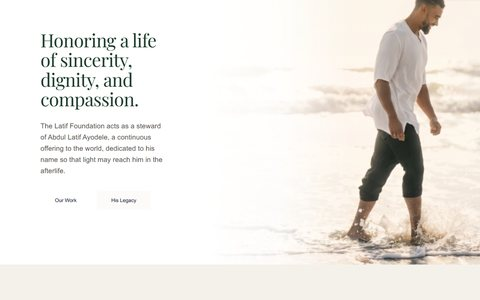
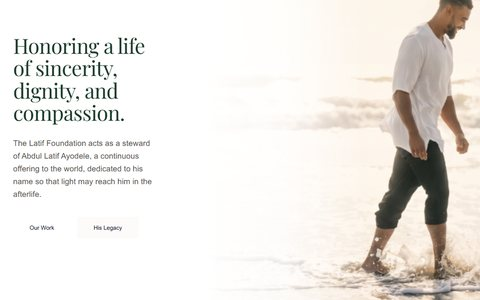
Polish: balanced work grid, clearer card labels, tidier project pages

diff --git a/index.html b/index.html
@@ -162,7 +162,9 @@ em.s { font-style: normal; color: var(--olive); }
 .cover { position: absolute; inset: 0; display: grid; place-items: center; padding: 14%; background: var(--t-default); transition: transform 1.1s cubic-bezier(.2, .7, .2, 1); }
 .cover.pa { background: #f26a03; color: #fff; } .cover.ink { background: #151412; color: #f4efe6; } .cover.iac { background: #123f33; color: #fff; }
 .cover.amwt { background: #008c70; color: #fff; } .cover.ink2 { background: #0f1a17; color: #e9f5f1; }
-.cover.warm { background: var(--t-warm); color: #1d1a17; } .cover.dark { background: var(--t-dark); color: #f4efe6; }
+.cover.warm { background: var(--t-warm); color: #1d1a17; }
+:root[data-theme="dark"] .cover.warm { background: #2a241c; color: #f3ebe0; }
+@media (prefers-color-scheme: dark) { :root:not([data-theme="light"]) .cover.warm { background: #2a241c; color: #f3ebe0; } } .cover.dark { background: var(--t-dark); color: #f4efe6; }
 .cover img { max-height: 30%; max-width: 64%; width: auto; }
 .cover img.white { filter: brightness(0) invert(1); }
 .cover .sub { position: absolute; left: 24px; right: 24px; bottom: 22px; display: flex; justify-content: space-between; gap: 16px; font: 500 12px/1 var(--sans); letter-spacing: .16em; text-transform: uppercase; opacity: .8; }
@@ -205,7 +207,7 @@ em.s { font-style: normal; color: var(--olive); }
 
 /* about */
 .about { display: grid; grid-template-columns: minmax(0, 1fr) minmax(0, 1fr); gap: 80px; align-items: start; }
-.about .big { font: 400 clamp(22px, 2.2vw, 29px)/1.38 var(--sans); letter-spacing: -.02em; margin-top: 28px; }
+.about .big { font: 400 clamp(19px, 1.8vw, 24px)/1.45 var(--sans); letter-spacing: -.02em; margin-top: 28px; }
 .xp { display: grid; border-top: 1px solid var(--ink); }
 .job { display: grid; grid-template-columns: minmax(0, 1fr) auto; gap: 4px 20px; padding-block: 26px; border-bottom: 1px solid var(--rule); }
 .job h3 { font: 500 19px/1.35 var(--sans); letter-spacing: -.015em; }
@@ -225,6 +227,12 @@ em.s { font-style: normal; color: var(--olive); }
 .orgs .did { font-size: 16px; color: var(--ink-2); }
 .orgs .did strong { display: block; font: 500 13px/1.3 var(--sans); color: var(--muted); margin-bottom: 8px; }
 .note { margin-top: 28px; font-size: 13px; color: var(--muted); max-width: 90ch; }
+.notes { margin-top: 28px; }
+.notes summary { cursor: pointer; font-size: 14px; color: var(--ink-2); list-style: none; display: inline-flex; gap: 8px; align-items: center; }
+.notes summary::-webkit-details-marker { display: none; }
+.notes summary::after { content: "+"; font-size: 16px; color: var(--olive); transition: transform .2s; }
+.notes[open] summary::after { transform: rotate(45deg); }
+.notes .note { margin-top: 14px; }
 
 /* AI, as a quiet side note */
 .ai { display: grid; grid-template-columns: minmax(0, 1fr) minmax(0, 1fr); gap: 80px; align-items: start; }
@@ -245,8 +253,8 @@ footer .open { font: 500 clamp(36px, 5vw, 72px)/1.02 var(--sans); letter-spacing
 .case { padding-block: 48px 0; }
 .back { font-size: 14px; color: var(--muted); text-decoration: none; }
 .back:hover { color: var(--ink); }
-.case h1 { font: 500 clamp(44px, 7vw, 104px)/.95 var(--sans); letter-spacing: -.05em; margin-top: 18px; max-width: 14ch; }
-.case .top { display: grid; grid-template-columns: minmax(0, 1fr) minmax(0, 1fr); gap: 24px 64px; align-items: end; margin-top: 40px; }
+.case h1 { font: 500 clamp(40px, 5.6vw, 84px)/.98 var(--sans); letter-spacing: -.045em; margin-top: 18px; max-width: 18ch; }
+.case .top { display: grid; grid-template-columns: minmax(0, 1.5fr) minmax(0, 1fr); gap: 24px 64px; align-items: end; margin-top: 40px; }
 .case .line { font-size: 19px; color: var(--ink-2); max-width: 40ch; }
 .case .visit { display: inline-flex; gap: 8px; margin-top: 16px; font-size: 15px; font-weight: 500; color: var(--ink); text-decoration: none; border-bottom: 1px solid var(--rule); padding-bottom: 4px; }
 .case .visit:hover { border-color: var(--ink); }
@@ -523,7 +531,7 @@ footer .open { font: 500 clamp(36px, 5vw, 72px)/1.02 var(--sans); letter-spacing
           <p class="did"><strong>My work</strong>The brand, the whole website and all of its copy.</p>
         </li>
       </ul>
-      <p class="note">£235M+ is the income reported to the Charity Commission over the last five financial years by Orphans In Need (£99.6M), Penny Appeal (£85.8M), Al Mustafa Welfare Trust (£47.3M) and IAC UK (£2.7M). It leaves out Penny Appeal Canada and Australia, so the real total is higher. The 40 countries are where these charities, and the others on this page, deliver aid, from the Charity Commission register and the charities' own reports: Afghanistan, Azerbaijan, Bangladesh, Bosnia and Herzegovina, Cameroon, Central African Republic, Djibouti, Eritrea, Ethiopia, Greece, Guinea, Guinea-Bissau, India, Indonesia, Iraq, Kenya, Lebanon, Malawi, Malaysia, Mali, Mauritania, Myanmar, Nepal, Niger, Nigeria, Pakistan, Palestine, Rwanda, Senegal, Sierra Leone, Somalia, South Africa, Sri Lanka, Sudan, Syria, Tanzania, The Gambia, Türkiye, the United Kingdom and Yemen. Logos are shown with permission.</p>
+      <details class="notes"><summary>How these figures are worked out</summary><p class="note">£235M+ is the income reported to the Charity Commission over the last five financial years by Orphans In Need (£99.6M), Penny Appeal (£85.8M), Al Mustafa Welfare Trust (£47.3M) and IAC UK (£2.7M). It leaves out Penny Appeal Canada and Australia, so the real total is higher. The 40 countries are where these charities, and the others on this page, deliver aid, from the Charity Commission register and the charities' own reports: Afghanistan, Azerbaijan, Bangladesh, Bosnia and Herzegovina, Cameroon, Central African Republic, Djibouti, Eritrea, Ethiopia, Greece, Guinea, Guinea-Bissau, India, Indonesia, Iraq, Kenya, Lebanon, Malawi, Malaysia, Mali, Mauritania, Myanmar, Nepal, Niger, Nigeria, Pakistan, Palestine, Rwanda, Senegal, Sierra Leone, Somalia, South Africa, Sri Lanka, Sudan, Syria, Tanzania, The Gambia, Türkiye, the United Kingdom and Yemen. Logos are shown with permission.</p></details>
     </div>
   </section>
 
@@ -638,7 +646,7 @@ const PROJECTS = [
   client: "Al Mustafa Welfare Trust", title: "Ramadan 2024 campaign", year: "2024",
   roles: ["Campaign development"],
   logo: "logos/al-mustafa.svg", tint: "amwt", logoWhite: true, coverSub: "Ramadan 2024",
-  status: "Second Ramadan",
+  status: "Second year running",
   line: "The charity's Ramadan campaign the following year.",
   facts: [["Client", "Al Mustafa Welfare Trust"], ["Year", "Ramadan 2024"], ["My role", "Campaign development"]],
   story: [
@@ -692,7 +700,7 @@ const PROJECTS = [
   client: "New Roots", title: "Building the creative from the ground up", year: "2021",
   roles: ["Head of Creative", "Head of Curriculum", "Fundraising dinners"],
   tint: "warm",
-  status: "Head of Creative",
+  status: "Birmingham",
   line: "Built a Birmingham community organisation's creative work from scratch, and led what its youth programmes teach.",
   url: "https://nwrts.co.uk/our-story/", urlLabel: "Visit nwrts.co.uk",
   facts: [["Client", "New Roots, Birmingham"], ["Year", "2021"], ["My role", "Head of Creative and Development, Head of Curriculum and Head of Youth"], ["Programmes", "Youth clubs and Open Circle, for up to 60 teenagers a week"]],
@@ -703,11 +711,11 @@ const PROJECTS = [
   ]
 },
 {
-  id: "latif-foundation", group: "web", featured: true,
+  id: "latif-foundation", group: "web", featured: true, wide: true,
   client: "The Latif Foundation", title: "A website that reads like a memorial",
   roles: ["Brand", "Website", "Copy"],
   img: "img/latif-foundation", logo: "logos/latif-foundation.svg",
-  status: "Brand, site and copy",
+  status: "Memorial foundation",
   line: "The whole website and every word of it, for a memorial foundation.",
   url: "https://www.thelatiffoundation.org", urlLabel: "Visit thelatiffoundation.org",
   facts: [["Client", "The Latif Foundation"], ["Year", "2026"], ["My role", "Brand, website and all of the copy"], ["Live at", "thelatiffoundation.org"]],
@@ -736,7 +744,7 @@ const PROJECTS = [
   client: "Soul Caravan Foundation", title: "Appeals for Kenya, told story first",
   roles: ["Website design", "Appeals"],
   img: "img/soul-caravan", logo: "logos/soul-caravan.svg",
-  status: "Live",
+  status: "Live site",
   line: "An appeals website for a foundation supporting communities in Kenya.",
   url: "https://scwesbitef.vercel.app", urlLabel: "Visit the site",
   facts: [["Client", "Soul Caravan Foundation"], ["Years", "2025 to 2026"], ["My role", "Website design and build"]],
@@ -827,7 +835,7 @@ function mediaHTML(p, big) {
 }
 
 function cardHTML(p, n) {
-  return `<a class="card reveal${p.featured && p.video ? " wide" : ""}" href="#${p.id}" data-group="${p.group}">
+  return `<a class="card reveal${(p.featured && p.video) || p.wide ? " wide" : ""}" href="#${p.id}" data-group="${p.group}">
     <span class="media">${mediaHTML(p, true)}${p.video ? `<span class="play">${PLAY}Watch the film</span>` : ""}</span>
     <span class="meta">
       <span class="idx">${n ? pad(n) : ""}</span>
@@ -893,7 +901,7 @@ function renderCase(p) {
     </article>
     <section class="wrap more">
       <p class="eyebrow">More work</p>
-      <div class="grid">${more.map(m => cardHTML({ ...m, featured: false })).join("")}</div>
+      <div class="grid">${more.map(m => cardHTML({ ...m, featured: false, wide: false })).join("")}</div>
     </section>
     <footer class="wrap site" style="padding-top:32px">
       <p class="open">Want work like this <em class="s">for your next campaign?</em></p>

diff --git a/src.html b/src.html
@@ -162,7 +162,9 @@ em.s { font-style: normal; color: var(--olive); }
 .cover { position: absolute; inset: 0; display: grid; place-items: center; padding: 14%; background: var(--t-default); transition: transform 1.1s cubic-bezier(.2, .7, .2, 1); }
 .cover.pa { background: #f26a03; color: #fff; } .cover.ink { background: #151412; color: #f4efe6; } .cover.iac { background: #123f33; color: #fff; }
 .cover.amwt { background: #008c70; color: #fff; } .cover.ink2 { background: #0f1a17; color: #e9f5f1; }
-.cover.warm { background: var(--t-warm); color: #1d1a17; } .cover.dark { background: var(--t-dark); color: #f4efe6; }
+.cover.warm { background: var(--t-warm); color: #1d1a17; }
+:root[data-theme="dark"] .cover.warm { background: #2a241c; color: #f3ebe0; }
+@media (prefers-color-scheme: dark) { :root:not([data-theme="light"]) .cover.warm { background: #2a241c; color: #f3ebe0; } } .cover.dark { background: var(--t-dark); color: #f4efe6; }
 .cover img { max-height: 30%; max-width: 64%; width: auto; }
 .cover img.white { filter: brightness(0) invert(1); }
 .cover .sub { position: absolute; left: 24px; right: 24px; bottom: 22px; display: flex; justify-content: space-between; gap: 16px; font: 500 12px/1 var(--sans); letter-spacing: .16em; text-transform: uppercase; opacity: .8; }
@@ -205,7 +207,7 @@ em.s { font-style: normal; color: var(--olive); }
 
 /* about */
 .about { display: grid; grid-template-columns: minmax(0, 1fr) minmax(0, 1fr); gap: 80px; align-items: start; }
-.about .big { font: 400 clamp(22px, 2.2vw, 29px)/1.38 var(--sans); letter-spacing: -.02em; margin-top: 28px; }
+.about .big { font: 400 clamp(19px, 1.8vw, 24px)/1.45 var(--sans); letter-spacing: -.02em; margin-top: 28px; }
 .xp { display: grid; border-top: 1px solid var(--ink); }
 .job { display: grid; grid-template-columns: minmax(0, 1fr) auto; gap: 4px 20px; padding-block: 26px; border-bottom: 1px solid var(--rule); }
 .job h3 { font: 500 19px/1.35 var(--sans); letter-spacing: -.015em; }
@@ -225,6 +227,12 @@ em.s { font-style: normal; color: var(--olive); }
 .orgs .did { font-size: 16px; color: var(--ink-2); }
 .orgs .did strong { display: block; font: 500 13px/1.3 var(--sans); color: var(--muted); margin-bottom: 8px; }
 .note { margin-top: 28px; font-size: 13px; color: var(--muted); max-width: 90ch; }
+.notes { margin-top: 28px; }
+.notes summary { cursor: pointer; font-size: 14px; color: var(--ink-2); list-style: none; display: inline-flex; gap: 8px; align-items: center; }
+.notes summary::-webkit-details-marker { display: none; }
+.notes summary::after { content: "+"; font-size: 16px; color: var(--olive); transition: transform .2s; }
+.notes[open] summary::after { transform: rotate(45deg); }
+.notes .note { margin-top: 14px; }
 
 /* AI, as a quiet side note */
 .ai { display: grid; grid-template-columns: minmax(0, 1fr) minmax(0, 1fr); gap: 80px; align-items: start; }
@@ -245,8 +253,8 @@ footer .open { font: 500 clamp(36px, 5vw, 72px)/1.02 var(--sans); letter-spacing
 .case { padding-block: 48px 0; }
 .back { font-size: 14px; color: var(--muted); text-decoration: none; }
 .back:hover { color: var(--ink); }
-.case h1 { font: 500 clamp(44px, 7vw, 104px)/.95 var(--sans); letter-spacing: -.05em; margin-top: 18px; max-width: 14ch; }
-.case .top { display: grid; grid-template-columns: minmax(0, 1fr) minmax(0, 1fr); gap: 24px 64px; align-items: end; margin-top: 40px; }
+.case h1 { font: 500 clamp(40px, 5.6vw, 84px)/.98 var(--sans); letter-spacing: -.045em; margin-top: 18px; max-width: 18ch; }
+.case .top { display: grid; grid-template-columns: minmax(0, 1.5fr) minmax(0, 1fr); gap: 24px 64px; align-items: end; margin-top: 40px; }
 .case .line { font-size: 19px; color: var(--ink-2); max-width: 40ch; }
 .case .visit { display: inline-flex; gap: 8px; margin-top: 16px; font-size: 15px; font-weight: 500; color: var(--ink); text-decoration: none; border-bottom: 1px solid var(--rule); padding-bottom: 4px; }
 .case .visit:hover { border-color: var(--ink); }
@@ -523,7 +531,7 @@ footer .open { font: 500 clamp(36px, 5vw, 72px)/1.02 var(--sans); letter-spacing
           <p class="did"><strong>My work</strong>The brand, the whole website and all of its copy.</p>
         </li>
       </ul>
-      <p class="note">£235M+ is the income reported to the Charity Commission over the last five financial years by Orphans In Need (£99.6M), Penny Appeal (£85.8M), Al Mustafa Welfare Trust (£47.3M) and IAC UK (£2.7M). It leaves out Penny Appeal Canada and Australia, so the real total is higher. The 40 countries are where these charities, and the others on this page, deliver aid, from the Charity Commission register and the charities' own reports: Afghanistan, Azerbaijan, Bangladesh, Bosnia and Herzegovina, Cameroon, Central African Republic, Djibouti, Eritrea, Ethiopia, Greece, Guinea, Guinea-Bissau, India, Indonesia, Iraq, Kenya, Lebanon, Malawi, Malaysia, Mali, Mauritania, Myanmar, Nepal, Niger, Nigeria, Pakistan, Palestine, Rwanda, Senegal, Sierra Leone, Somalia, South Africa, Sri Lanka, Sudan, Syria, Tanzania, The Gambia, Türkiye, the United Kingdom and Yemen. Logos are shown with permission.</p>
+      <details class="notes"><summary>How these figures are worked out</summary><p class="note">£235M+ is the income reported to the Charity Commission over the last five financial years by Orphans In Need (£99.6M), Penny Appeal (£85.8M), Al Mustafa Welfare Trust (£47.3M) and IAC UK (£2.7M). It leaves out Penny Appeal Canada and Australia, so the real total is higher. The 40 countries are where these charities, and the others on this page, deliver aid, from the Charity Commission register and the charities' own reports: Afghanistan, Azerbaijan, Bangladesh, Bosnia and Herzegovina, Cameroon, Central African Republic, Djibouti, Eritrea, Ethiopia, Greece, Guinea, Guinea-Bissau, India, Indonesia, Iraq, Kenya, Lebanon, Malawi, Malaysia, Mali, Mauritania, Myanmar, Nepal, Niger, Nigeria, Pakistan, Palestine, Rwanda, Senegal, Sierra Leone, Somalia, South Africa, Sri Lanka, Sudan, Syria, Tanzania, The Gambia, Türkiye, the United Kingdom and Yemen. Logos are shown with permission.</p></details>
     </div>
   </section>
 
@@ -587,7 +595,7 @@ function mediaHTML(p, big) {
 }
 
 function cardHTML(p, n) {
-  return `<a class="card reveal${p.featured && p.video ? " wide" : ""}" href="#${p.id}" data-group="${p.group}">
+  return `<a class="card reveal${(p.featured && p.video) || p.wide ? " wide" : ""}" href="#${p.id}" data-group="${p.group}">
     <span class="media">${mediaHTML(p, true)}${p.video ? `<span class="play">${PLAY}Watch the film</span>` : ""}</span>
     <span class="meta">
       <span class="idx">${n ? pad(n) : ""}</span>
@@ -653,7 +661,7 @@ function renderCase(p) {
     </article>
     <section class="wrap more">
       <p class="eyebrow">More work</p>
-      <div class="grid">${more.map(m => cardHTML({ ...m, featured: false })).join("")}</div>
+      <div class="grid">${more.map(m => cardHTML({ ...m, featured: false, wide: false })).join("")}</div>
     </section>
     <footer class="wrap site" style="padding-top:32px">
       <p class="open">Want work like this <em class="s">for your next campaign?</em></p>

diff --git a/projects.js b/projects.js
@@ -82,7 +82,7 @@ const PROJECTS = [
   client: "Al Mustafa Welfare Trust", title: "Ramadan 2024 campaign", year: "2024",
   roles: ["Campaign development"],
   logo: "logos/al-mustafa.svg", tint: "amwt", logoWhite: true, coverSub: "Ramadan 2024",
-  status: "Second Ramadan",
+  status: "Second year running",
   line: "The charity's Ramadan campaign the following year.",
   facts: [["Client", "Al Mustafa Welfare Trust"], ["Year", "Ramadan 2024"], ["My role", "Campaign development"]],
   story: [
@@ -136,7 +136,7 @@ const PROJECTS = [
   client: "New Roots", title: "Building the creative from the ground up", year: "2021",
   roles: ["Head of Creative", "Head of Curriculum", "Fundraising dinners"],
   tint: "warm",
-  status: "Head of Creative",
+  status: "Birmingham",
   line: "Built a Birmingham community organisation's creative work from scratch, and led what its youth programmes teach.",
   url: "https://nwrts.co.uk/our-story/", urlLabel: "Visit nwrts.co.uk",
   facts: [["Client", "New Roots, Birmingham"], ["Year", "2021"], ["My role", "Head of Creative and Development, Head of Curriculum and Head of Youth"], ["Programmes", "Youth clubs and Open Circle, for up to 60 teenagers a week"]],
@@ -147,11 +147,11 @@ const PROJECTS = [
   ]
 },
 {
-  id: "latif-foundation", group: "web", featured: true,
+  id: "latif-foundation", group: "web", featured: true, wide: true,
   client: "The Latif Foundation", title: "A website that reads like a memorial",
   roles: ["Brand", "Website", "Copy"],
   img: "img/latif-foundation", logo: "logos/latif-foundation.svg",
-  status: "Brand, site and copy",
+  status: "Memorial foundation",
   line: "The whole website and every word of it, for a memorial foundation.",
   url: "https://www.thelatiffoundation.org", urlLabel: "Visit thelatiffoundation.org",
   facts: [["Client", "The Latif Foundation"], ["Year", "2026"], ["My role", "Brand, website and all of the copy"], ["Live at", "thelatiffoundation.org"]],
@@ -180,7 +180,7 @@ const PROJECTS = [
   client: "Soul Caravan Foundation", title: "Appeals for Kenya, told story first",
   roles: ["Website design", "Appeals"],
   img: "img/soul-caravan", logo: "logos/soul-caravan.svg",
-  status: "Live",
+  status: "Live site",
   line: "An appeals website for a foundation supporting communities in Kenya.",
   url: "https://scwesbitef.vercel.app", urlLabel: "Visit the site",
   facts: [["Client", "Soul Caravan Foundation"], ["Years", "2025 to 2026"], ["My role", "Website design and build"]],
